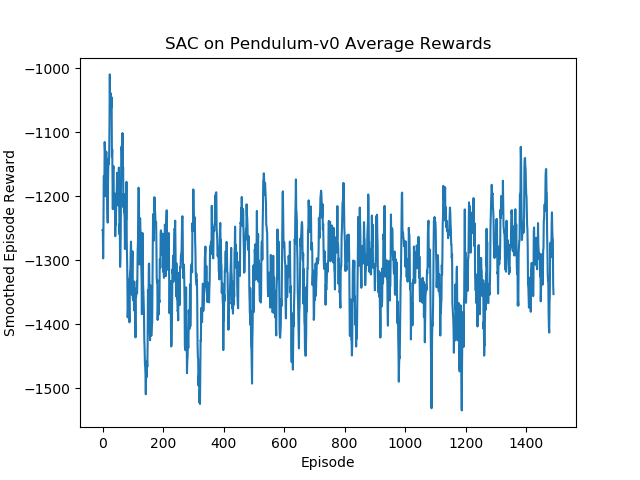
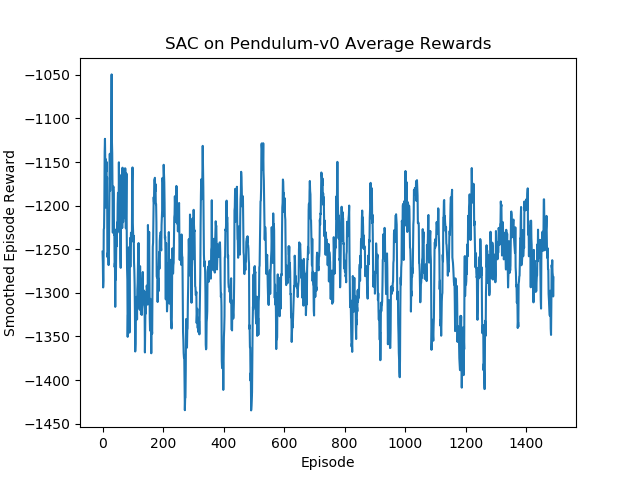
adding more results of Soft Actor Critic training

diff --git a/sac.swift b/sac.swift
@@ -428,9 +428,9 @@ class SoftActorCritic {
     critic_v_target: CriticVNetwork,
     stateSize: Int,
     actionSize: Int,
-    critic_lr: Float = 0.00009,
+    critic_lr: Float = 0.0001,
     actor_lr: Float = 0.0001,
-    critic_v_lr: Float = 0.00001,
+    critic_v_lr: Float = 0.0001,
     alpha: Float = 0.2,
     gamma: Float = 0.95) {
       self.actor_network = actor
@@ -489,7 +489,10 @@ class SoftActorCritic {
       let target_q_values_no_deriv : Tensor<Float> = withoutDerivative(at: target_q_values)
       let predicted_q_values: Tensor<Float> = critic_q1([states, actions]).flattened()
 
-      return huberLoss(predicted: predicted_q_values, expected: target_q_values_no_deriv, delta: 5.0).mean()
+      let td_error: Tensor<Float> = target_q_values_no_deriv - predicted_q_values
+      let td_loss: Tensor<Float> = 0.5*(pow(td_error, 2)).mean()
+      return td_loss
+      //return huberLoss(predicted: predicted_q_values, expected: target_q_values_no_deriv, delta: 5.0).mean()
     }
     self.critic_q1_optimizer.update(&self.critic_q1, along: critic_q1_gradients)
 
@@ -501,8 +504,10 @@ class SoftActorCritic {
       //get predicted q values from critic network
       let target_q_values_no_deriv : Tensor<Float> = withoutDerivative(at: target_q_values)
       let predicted_q_values: Tensor<Float> = critic_q2([states, actions]).flattened()
-
-      return huberLoss(predicted: predicted_q_values, expected: target_q_values_no_deriv, delta: 5.0).mean()
+      let td_error: Tensor<Float> = target_q_values_no_deriv - predicted_q_values
+      let td_loss: Tensor<Float> = 0.5*(pow(td_error, 2)).mean()
+      return td_loss
+      //return huberLoss(predicted: predicted_q_values, expected: target_q_values_no_deriv, delta: 5.0).mean()
     }
     self.critic_q2_optimizer.update(&self.critic_q2, along: critic_q2_gradients)
 
@@ -537,10 +542,10 @@ class SoftActorCritic {
         let logp_pi: Tensor<Float> = actor_output[2]
 
         let current_q1: Tensor<Float> = self.critic_q1([states, sample_actions])
-        //let current_q2: Tensor<Float> = self.critic_q2([states, sample_actions])
-        //let minimum_q: Tensor<Float> = min(current_q1, current_q2)
+        let current_q2: Tensor<Float> = self.critic_q2([states, sample_actions])
+        let minimum_q: Tensor<Float> = min(current_q1, current_q2)
 
-        let error: Tensor<Float> = current_q1 - self.alpha * logp_pi
+        let error: Tensor<Float> = minimum_q - self.alpha * logp_pi
         let loss: Tensor<Float> = -1.0 * error.mean()
         return loss
     }
@@ -698,18 +703,18 @@ func evaluate_agent(agent: SoftActorCritic, env: TensorFlowEnvironmentWrapper, n
 let env = TensorFlowEnvironmentWrapper(gym.make("Pendulum-v0"))
 env.set_environment_seed(seed: 1001)
 let max_action: Tensor<Float> = Tensor<Float>(2.0)
-let actor_net: GaussianActorNetwork = GaussianActorNetwork(state_size: 3, action_size: 1, hiddenLayerSizes: [400, 300], maximum_action:max_action)
-let critic_q1: CriticQNetwork = CriticQNetwork(state_size: 3, action_size: 1, hiddenLayerSizes: [400, 300], outDimension: 1)
-let critic_q2: CriticQNetwork = CriticQNetwork(state_size: 3, action_size: 1, hiddenLayerSizes: [400, 300], outDimension: 1)
-let critic_v: CriticVNetwork = CriticVNetwork(state_size: 3, hiddenLayerSizes:[400, 300], outDimension: 1)
-let critic_v_target: CriticVNetwork = CriticVNetwork(state_size: 3, hiddenLayerSizes:[400, 300], outDimension: 1)
+let actor_net: GaussianActorNetwork = GaussianActorNetwork(state_size: 3, action_size: 1, hiddenLayerSizes: [300, 200], maximum_action:max_action)
+let critic_q1: CriticQNetwork = CriticQNetwork(state_size: 3, action_size: 1, hiddenLayerSizes: [300, 200], outDimension: 1)
+let critic_q2: CriticQNetwork = CriticQNetwork(state_size: 3, action_size: 1, hiddenLayerSizes: [300, 200], outDimension: 1)
+let critic_v: CriticVNetwork = CriticVNetwork(state_size: 3, hiddenLayerSizes:[300, 200], outDimension: 1)
+let critic_v_target: CriticVNetwork = CriticVNetwork(state_size: 3, hiddenLayerSizes:[300, 200], outDimension: 1)
 
 let actor_critic: SoftActorCritic = SoftActorCritic(actor: actor_net,
                                                     critic_1: critic_q1,
                                                     critic_2: critic_q2,
                                                     critic_v: critic_v,
                                                     critic_v_target: critic_v_target,
-                                                    stateSize: 3, actionSize: 1, alpha: 0.35, gamma: 0.99)
+                                                    stateSize: 3, actionSize: 1, alpha: 0.25, gamma: 0.99)
 let(totalRewards, movingAvgReward, actor_losses, critic_1_losses, critic_2_losses, value_losses)
   = sac_train(actor_critic: actor_critic,
         env: env,

diff --git a/gym-robotics-env.swift b/gym-robotics-env.swift
@@ -12,9 +12,11 @@ func randomStep(numSteps: Int) -> Int {
     for _ in 0..<numSteps {
       env.render()
       let action = env.action_space.sample()
-      print(action)
+      print("Action Size")
+      print(action.shape)
       let (state, reward, isDone, _) = env.step(action).tuple4
       print(state)
+      print("Reward")
       print(reward)
 
     }
